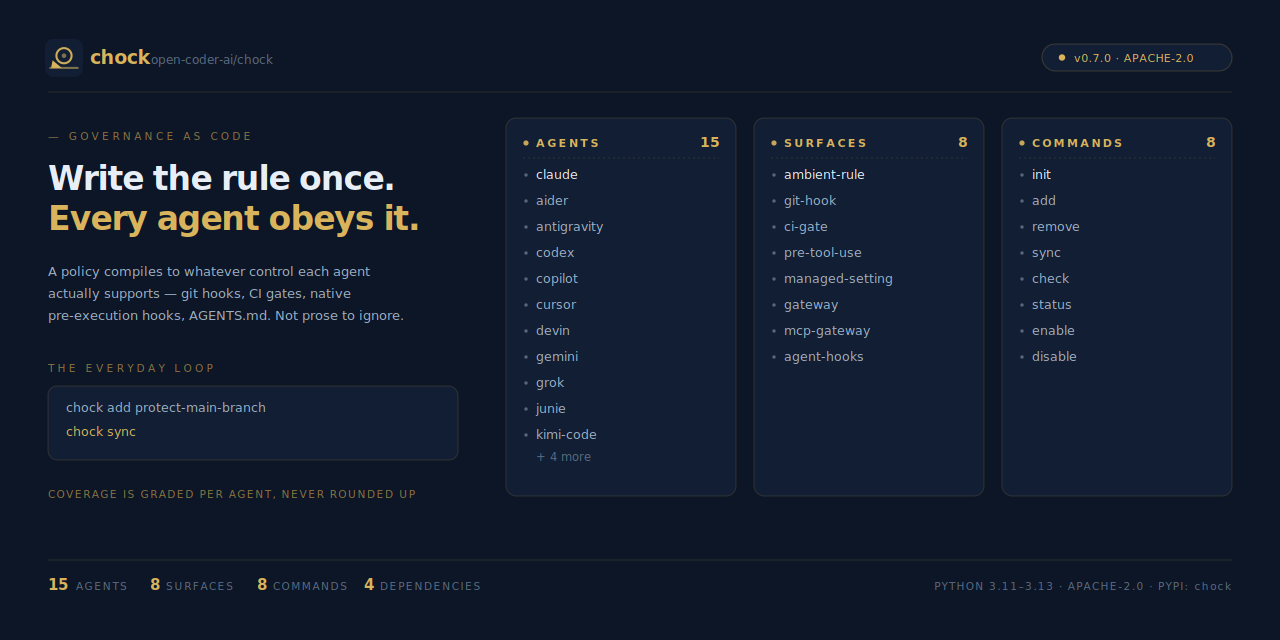
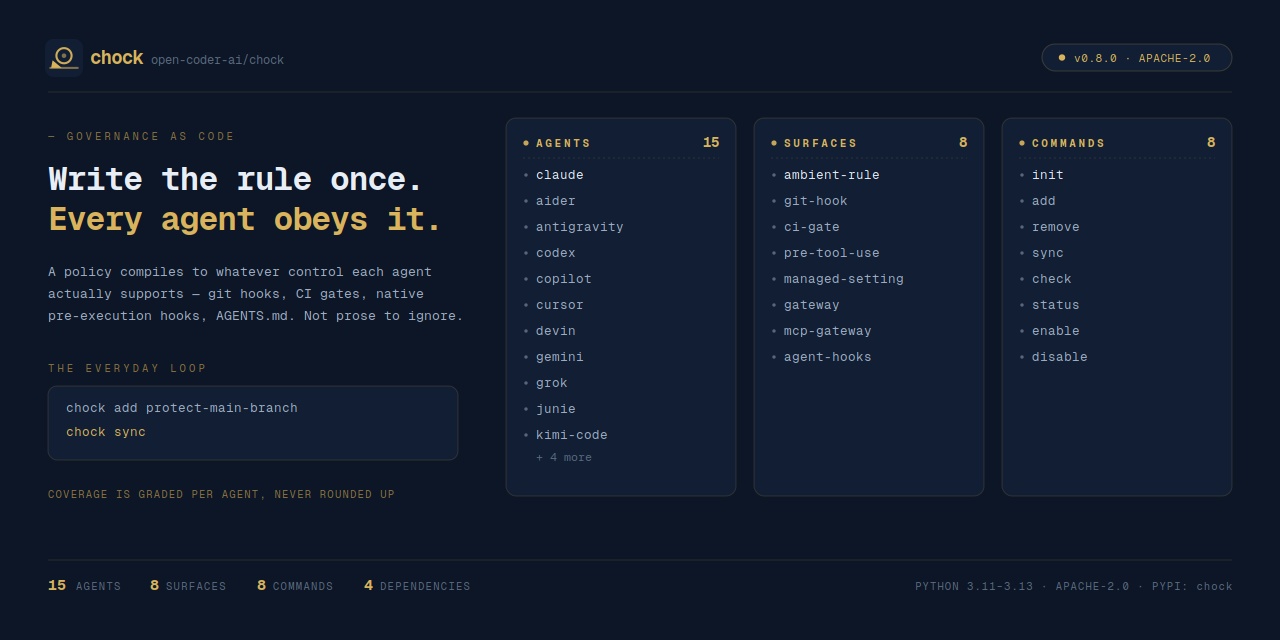
release prep: v0.8.0
Version in pyproject.toml and CITATION.cff (also correcting CITATION's stale 0.6.0 --
pyproject was already at 0.7.0). CHANGELOG's accumulated Unreleased section (C0-C3
derive-from-vendor-config waves, W48 templates-to-data, W48-followup) becomes 0.8.0,
plus a new bullet for W50's Sonar/Checkstyle/FindBugs ruff-bar adoption (chock#102,
not previously recorded); a fresh empty Unreleased sits above it. Brand assets
(social-preview.svg/.png) regenerated from the package so the rendered card's version
and counts stay honest.

Full suite (1045 passed, 6 skipped), chock check, chock sync --repo . --check,
acceptance suite (21 passed), ruff check and ruff format --check all clean.

diff --git a/CHANGELOG.md b/CHANGELOG.md
@@ -2,6 +2,25 @@
 
 ## Unreleased
 
+Nothing yet.
+
+## 0.8.0 — Derive from agentseam's vendor config; externalize templates; adopt the Sonar/Checkstyle/FindBugs lint bar
+
+- **Adopted the Sonar/Checkstyle/FindBugs-class ruff rule bar** (owner standard,
+  `plan/coding-standards.md` §3) across `src/`: `C90 N PLR PLW PLC ERA T201 ARG RET SIM
+  PIE FBT A B S BLE TRY RUF`, with mccabe max-complexity 10 and pylint max-args 5 /
+  max-branches 12 / max-returns 6 / max-statements 50. Fixed the measured `src/` baseline
+  category by category in bisectable commits -- mechanical/safe, magic values plus a new
+  literal-duplication guard (`tools/check_literal_duplication.py`), exception hygiene,
+  boolean traps (keyword-only, including the vendored gate runtime), unused arguments,
+  asserts, subprocess hardening, 65 of 71 lazy imports hoisted to module top (6 kept lazy
+  for documented reasons), and `print` centralized into a new `chock/output.py`
+  `warn`/`error` surface for the 31 call sites that matched its convention (the ~183
+  genuine CLI/render call sites are per-file-ignored). Complexity splits (37 findings
+  across 21 functions) are deliberately deferred to a follow-up wave via scoped
+  `TODO(lint-adoption)` per-file-ignores, never a blanket one. No behaviour change: full
+  suite, `chock check`, `sync --check`, the acceptance suite, and a full before/after
+  artifact diff all pass unchanged; the standard is recorded in `AGENTS.md`.
 - **Emitted-artifact templates move out of Python source into template files, and the
   CLI command table becomes data** (owner standard `externalize, don't hardcode`,
   `plan/coding-standards.md` §2). Every non-Python template previously held as a Python
